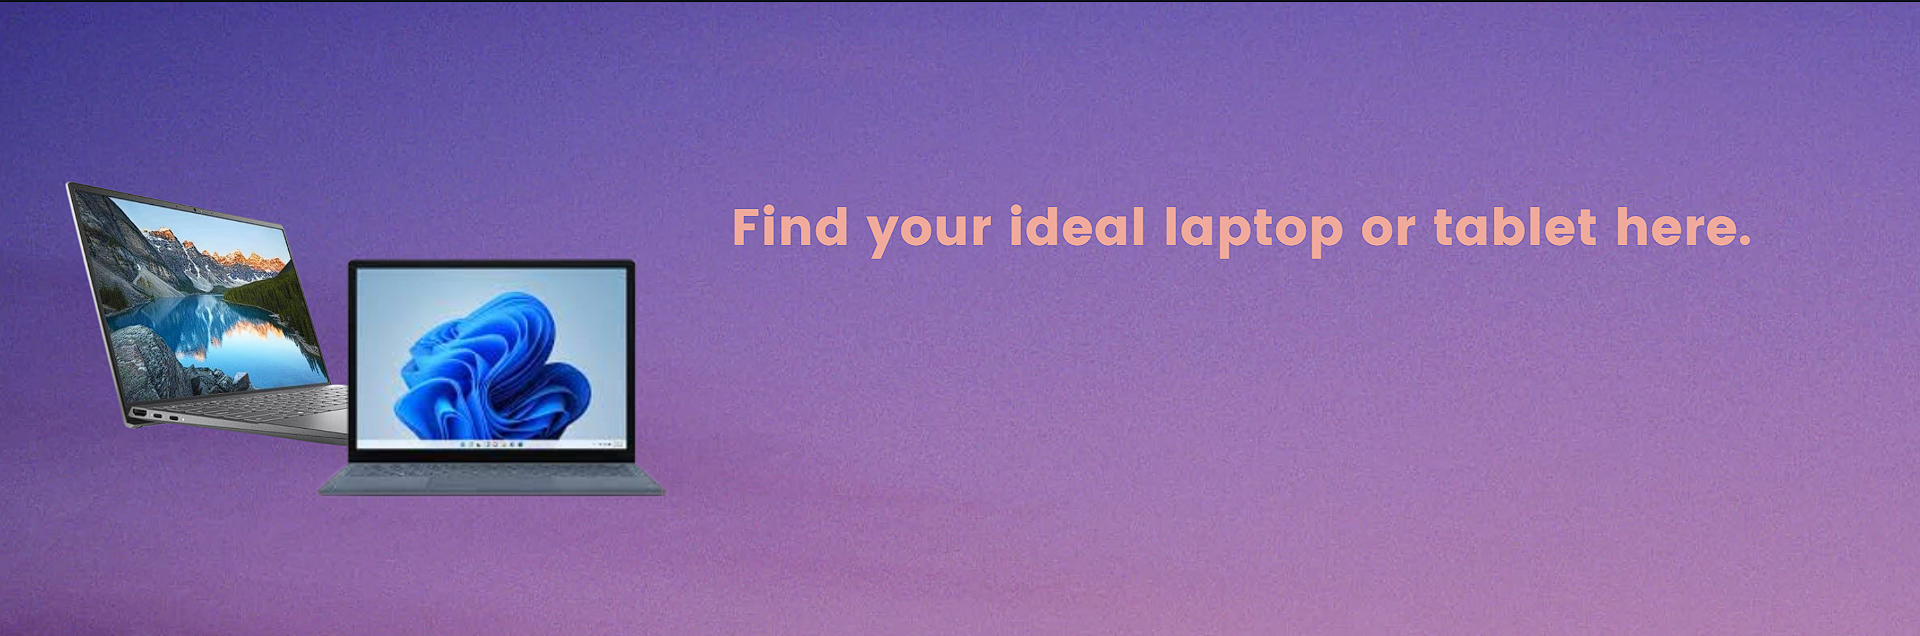
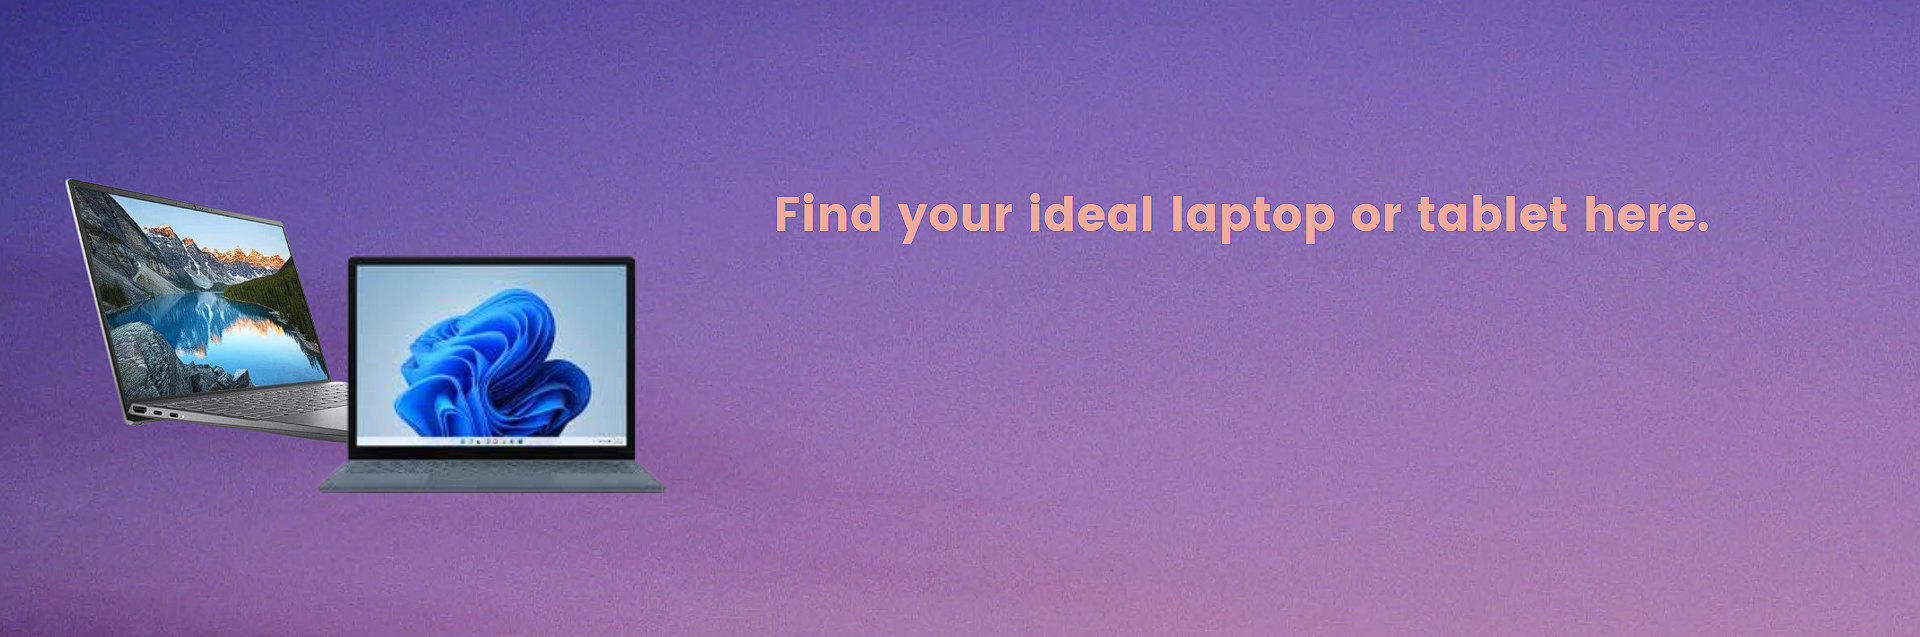
commit

Changed region(s): [[0.0312, 0.2689, 0.3438, 0.8066], [0.375, 0.2987, 0.9062, 0.4182], [0.0, 0.0, 1.0, 0.0299]]

diff --git a/index.html b/index.html
@@ -135,7 +135,7 @@
                                 <div class="slider-progress"></div>
                                 <div class="slider-content" style="position: relative;">
                                     <img src="images/banner/laptops & tablets.png" alt="">
-                                    <button class="banner-button" style="position: absolute; top: 70%; left: 48%; transform: translate(-50%, -50%);">Shop laptops & tablets</button>
+                                    <button class="banner-button" style="position: absolute; top: 70%; left: 49.5%; transform: translate(-50%, -50%);"><a href="product-grid-category.html?categoryId=1&categoryName=Laptops%20%26%20Tablets">Shop laptops & tablets</a></button>
                                 </div>
                             </div>
                             <!-- Single Slide Area End Here -->
@@ -144,7 +144,7 @@
                                 <div class="slider-progress"></div>
                                 <div class="slider-content">
                                     <img src="images/banner/beats.png" alt="">
-                                    <button class="banner-button" style="position: absolute; top: 70%; left: 45%; transform: translate(-50%, -50%);">Shop Beats by Dre</button>
+                                    <button class="banner-button" style="position: absolute; top: 70%; left: 47.5%; transform: translate(-50%, -50%);"><a href="product-grid-category.html?categoryId=2&categoryName=Electronics%20%26%20Accessories&subcategoryId=4&subcategoryName=Audio">Shop Beats by Dre</a></button>
                                 </div>
                             </div>
                             <!-- Single Slide Area End Here -->
@@ -153,7 +153,7 @@
                                 <div class="slider-progress"></div>
                                 <div class="slider-content">
                                     <img src="images/banner/disk.png" alt="">
-                                    <button class="banner-button" style="position: absolute; top: 70%; left: 24%; transform: translate(-50%, -50%);">Shop hard drives, SSDs & storage</button>
+                                    <button class="banner-button" style="position: absolute; top: 70%; left: 24.5%; transform: translate(-50%, -50%);"><a href="product-grid-category.html?categoryId=2&categoryName=Electronics%20%26%20Accessories&subcategoryId=5&subcategoryName=Hard%20Drives,%20SSDs%20%26%20Storage">Shop hard drives, SSDs & storage</a></button>
                                 </div>
                             </div>
                             <!-- Single Slide Area End Here -->
@@ -191,35 +191,6 @@
                 </div>
             </div>
             <!-- Highlight Products Area End Here -->
-            <!-- Begin Static Banner Area -->
-            <div class="static-banner-area mb-50">
-                <div class="container">
-                    <div class="row">
-                        <div class="col-4">
-                            <div class="single-banner">
-                                <a href="#">
-                                    <img src="images/banner/1_3.jpg" alt="Li's Static Banner">
-                                </a>
-                            </div>
-                        </div>
-                        <div class="col-4">
-                            <div class="single-banner">
-                                <a href="#">
-                                    <img src="images/banner/1_4.jpg" alt="Li's Static Banner">
-                                </a>
-                            </div>
-                        </div>
-                        <div class="col-4">
-                            <div class="single-banner">
-                                <a href="#">
-                                    <img src="images/banner/1_5.jpg" alt="Li's Static Banner">
-                                </a>
-                            </div>
-                        </div>
-                    </div>
-                </div>
-            </div>
-            <!-- Static Banner Area End Here -->
             <!-- Begin Laptop Area -->
             <div class="laptop-area mb-50">
                 <div class="container">

diff --git a/style.css b/style.css
@@ -240,9 +240,9 @@ option {
 /*----------------------------------------*/
 .my-button {
 	color: #fff;
-	background-color: #0673ca;
+	background-color: #8d54ff;
 	padding: 5px 30px;
-	border: 1px solid #0673ca;
+	border: 1px solid #8d54ff;
 	border-radius: 20px;
 }
 .my-button:hover {
@@ -251,10 +251,10 @@ option {
 	color: #000;
 }
 .my-button-inverse {
-	color: #0673ca;
+	color: #8d54ff;
 	background-color: #e7f1fd;
 	padding: 5px 30px;
-	border: 1px solid #0673ca;
+	border: 1px solid #8d54ff;
 	border-radius: 20px;
 }
 .my-button-inverse:hover {
@@ -295,7 +295,8 @@ option {
 /*----------------------------------------*/
 .header {
 	color: #fff;
-	background-color: #0673ca;
+	/* background-color: #8d54ff; */
+	background-color: #8d54ff;
 }
 /*Header Top*/
 .header-top {
@@ -482,6 +483,7 @@ option {
 .banner-button:hover {
 	cursor: pointer;
 	text-decoration: underline;
+
 }
 .dynamic-banner-area .owl-prev {
 	left: 10px;
@@ -576,7 +578,7 @@ option {
 	font-size: 12px;
 }
 .product-desc .product-name {
-	color: #0673ca;
+	color: #8d54ff;
 	font-size: 14px;
 }
 .product-desc .product-price {
@@ -634,7 +636,7 @@ option {
 /*  2.6 Footer
 /*----------------------------------------*/
 .footer {
-	background-color: #0673ca;
+	background-color: #8d54ff;
 	color: #fff;
 	font-size: 12px;
 }
@@ -707,13 +709,13 @@ option {
 	position: relative;
 	padding-bottom: 24px;
 	padding-left: 35px;
-	border-left: 2px solid #0673ca
+	border-left: 2px solid #8d54ff
 }
 .activity-checkout .checkout-item:first-child {
-	border-color: #0673ca
+	border-color: #8d54ff
 }
 .activity-checkout .checkout-item:first-child:after {
-	background-color: #0673ca
+	background-color: #8d54ff
 }
 .activity-checkout .checkout-item:last-child {
 	border-color: transparent
@@ -726,7 +728,7 @@ option {
 	-webkit-box-align: center;
 	-ms-flex-align: center;
 	align-items: center;
-	background-color: #0673ca;
+	background-color: #8d54ff;
 	color: #fff;
 	display: -webkit-box;
 	display: -ms-flexbox;
@@ -762,7 +764,7 @@ option {
 }
 .sign-in-form a,
 .sign-up-form a {
-	color: #0673ca;
+	color: #8d54ff;
 }
 .sign-in-form div,
 .sign-up-form div {
@@ -847,7 +849,7 @@ option {
 	content: unset;
 }
 .cart-options > li a {
-	color: #0673ca;
+	color: #8d54ff;
 }
 .summary-container {
 	font-size: 16px;
@@ -957,7 +959,7 @@ iframe {
 	text-decoration: none;
 }
 .current-page {
-	border: 1px solid #0673ca;
+	border: 1px solid #8d54ff;
 }
 /*----------------------------------------*/
 /*  3.7 Product Details Page
